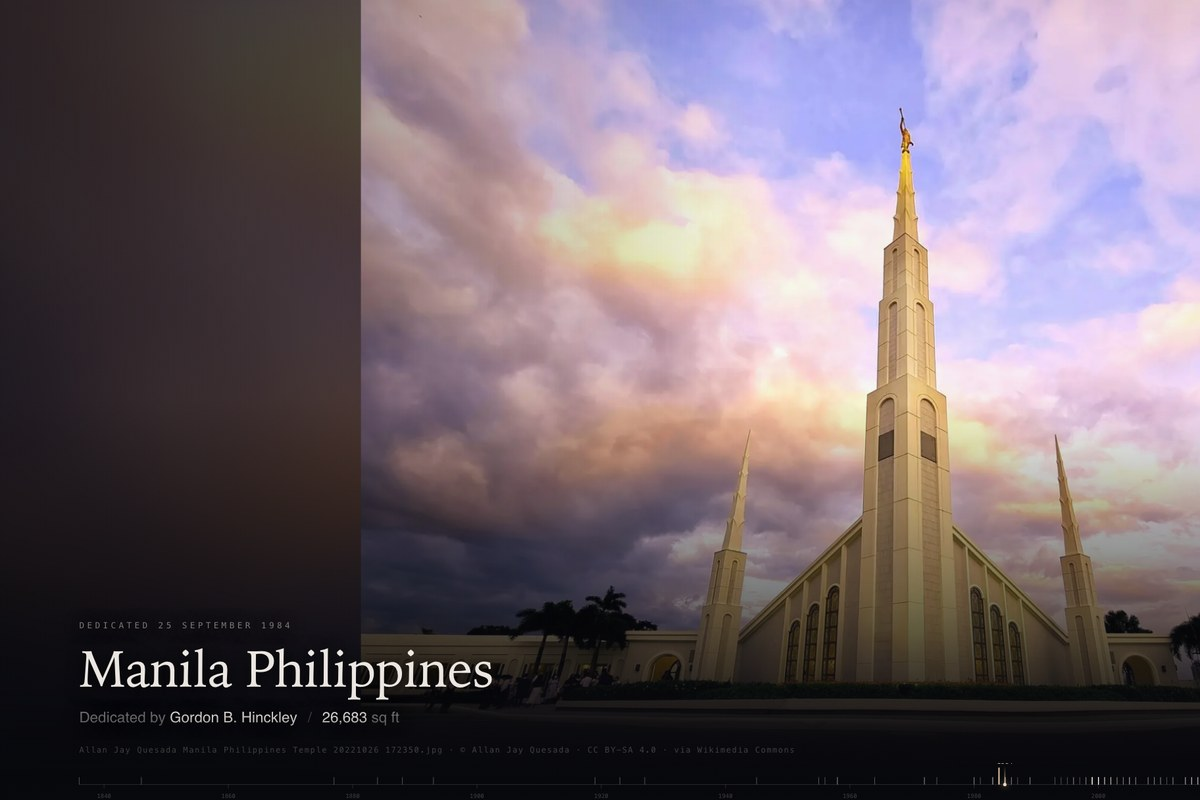
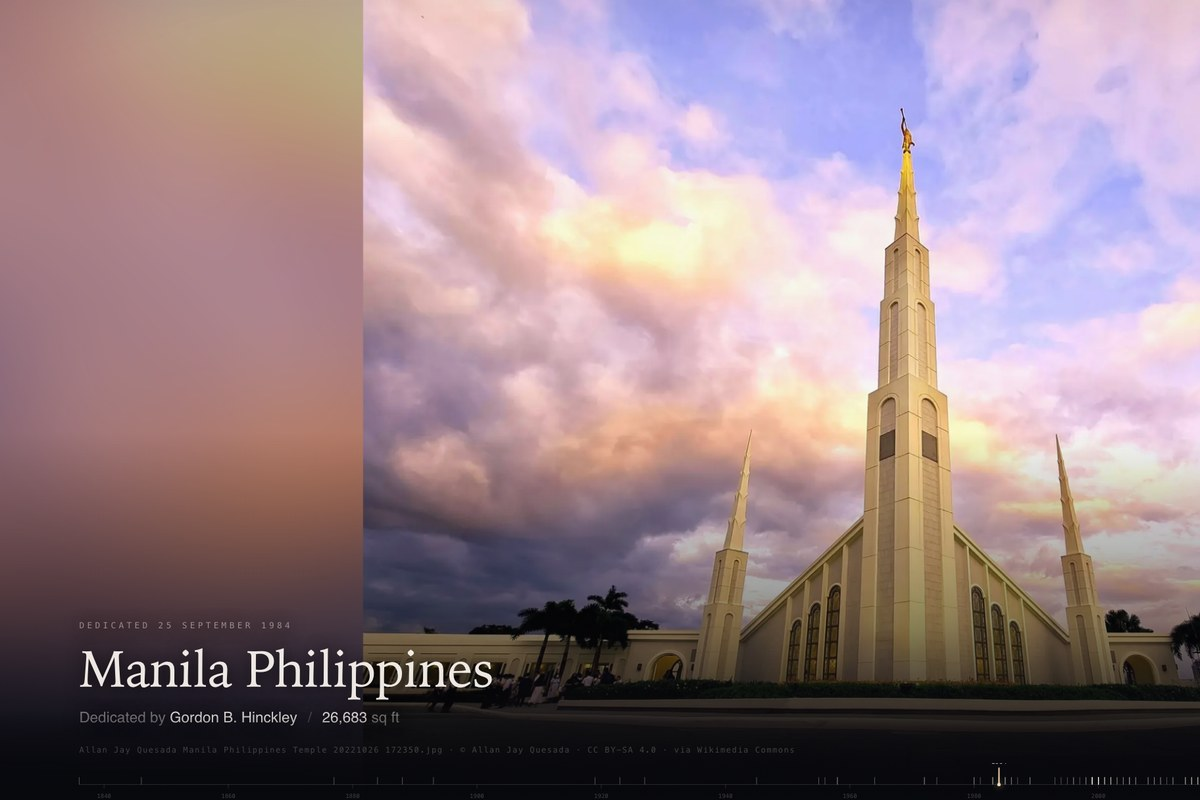
Blur the surround so the sides stop reading as black bars
The blurred fill either side of the photograph was there already, but knocked
down to 0.42 brightness and overlaid with a left-hand scrim running to 42% of
the width at 0.62 — a rule written back when the photograph filled the frame
and the caption sat on top of it. Against a fitted photograph that shading was
most of the width of the left margin, so the surround read as black bars rather
than as the picture continuing outward.

The fill is now bright enough to be recognisable as the same photograph, with
more blur and more overscan so it stays soft, and the saturation lifted so the
sides feel like they belong to the picture instead of being grey. The left-hand
scrim is replaced by a symmetric vignette, which reads as a lens falloff rather
than as one dark edge; the caption takes its contrast from the floor gradient
and its own text-shadow, which is enough.

Measured either way at 2736x1216: the blur costs nothing at runtime, because
the filtered layer is rasterised once and the drift and the bloom mask only
re-composite it. 37.4 fps with the filter off against 36.2 with it on, medians
18.5ms and 18.7ms — inside the run-to-run noise.

diff --git a/experiences/houses-of-light/web/src/style.css b/experiences/houses-of-light/web/src/style.css
@@ -88,8 +88,13 @@ html, body {
   background-size: cover;
   background-position: center;
   /* Overscanned before blurring so the blur does not fade out at the edges. */
-  transform: scale(1.18);
-  filter: blur(54px) saturate(1.35) brightness(0.42);
+  transform: scale(1.28);
+  /* Bright enough to read as the photograph continuing outward rather than as
+     black bars either side of it, but still clearly behind: the blur and a
+     gentle knock-down in brightness keep the sharp image dominant, and the
+     lifted saturation is what makes the sides feel like they belong to the
+     picture instead of being grey. */
+  filter: blur(68px) saturate(1.5) brightness(0.72);
 }
 
 .plate-front {
@@ -114,9 +119,17 @@ html, body {
 .plate::after {
   content: ""; position: absolute; inset: 0; pointer-events: none;
   background:
-    linear-gradient(to top, rgba(7,8,12,0.97) 0%, rgba(7,8,12,0.90) 9%,
-                    rgba(7,8,12,0.62) 22%, rgba(7,8,12,0) 50%),
-    linear-gradient(to right, rgba(7,8,12,0.62) 0%, rgba(7,8,12,0) 42%);
+    /* Floor for the caption. */
+    linear-gradient(to top, rgba(7,8,12,0.95) 0%, rgba(7,8,12,0.82) 9%,
+                    rgba(7,8,12,0.46) 22%, rgba(7,8,12,0) 46%),
+    /* A symmetric vignette, not a left-hand scrim. The old rule shaded only the
+       left — written when the photograph filled the frame and the caption sat
+       on top of it — and against a bright blurred surround that one dark edge
+       was most of why the sides read as bars. Shading both edges equally reads
+       as a lens vignette instead, and the caption gets its contrast from the
+       floor gradient above and its own text-shadow. */
+    radial-gradient(118% 104% at 50% 48%,
+                    rgba(7,8,12,0) 54%, rgba(7,8,12,0.42) 100%);
 }
 
 .caption {
